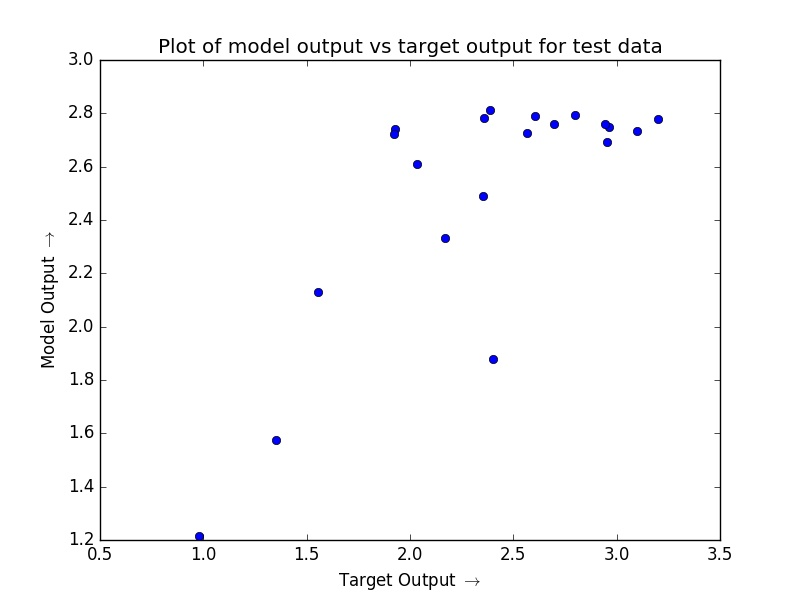
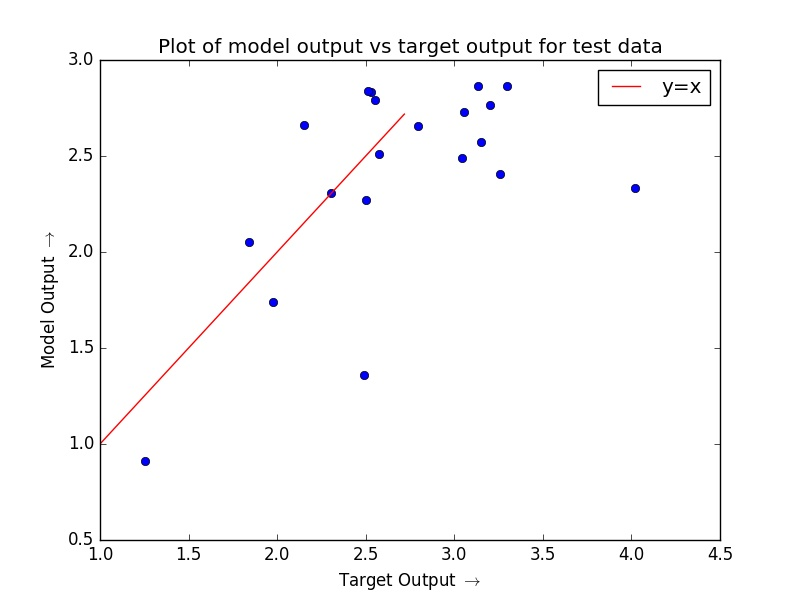
Updated sadi's code

diff --git a/PA1/Q3/main.py b/PA1/Q3/main.py
@@ -2,9 +2,15 @@ import numpy as np
 import matplotlib.pyplot as plt
 
 def likelihood(x,mean,cov):
-	return np.exp(-0.5*np.matmul(np.matmul((x-mean).T,(np.linalg.inv(cov))),(x-mean)))/(np.linalg.det(cov)**0.5)
+	'''
+	Returns the likelihood of observation x belonging to a gaussian class with given mean and covariance
+	'''
+	return np.exp(-0.5*np.matmul(np.matmul((x-mean),(np.linalg.inv(cov))),(x-mean).T))/(np.linalg.det(cov)**0.5)
 
 def classifier(x,training_params):
+	'''
+	Classifies data x into one of 3 gaussian classes by maximising the likelihood
+	'''
 	mean1,mean2,mean3,cov1,cov2,cov3 = training_params
 	L1 = likelihood(x,mean1,cov1)
 	L2 = likelihood(x,mean2,cov2)
@@ -19,10 +25,14 @@ def classifier(x,training_params):
 
 
 def training(alpha): 
+	'''
+	Will train a classifier and then return the train and test error. For smooth plots, we will compute the average training and test error
+	'''
 	av_testing_err = 0
 	av_training_err = 0
-	n_iter = 100
+	n_iter = 100 # Number of iterations to average over for finding the training and test error
 	for j in range(n_iter):
+		# Generate data
 		u1 = np.array([0,0,0])
 		u2 = np.array([1,5,-3])
 		u3 = np.array([0,0,0])
@@ -30,40 +40,42 @@ def training(alpha):
 		sigma2 = np.array([[1,0,0],[0,4,1],[0,1,6]])
 		sigma3 = np.diag([10,10,10])
 
-		N = 20
+		N = 20 # Number of training data samples from each class
 		x1 = np.random.multivariate_normal(u1,sigma1,N)
 		x2 = np.random.multivariate_normal(u2,sigma2,N)
 		x3 = np.random.multivariate_normal(u3,sigma3,N)
 		x = np.append(x1,np.append(x2,x3,0),0)
 
-		mean = np.mean(x)
+		# Estimating means of the distributions
 		s_mean1 = np.mean(x1,0)
 		s_mean2 = np.mean(x2,0)
 		s_mean3 = np.mean(x3,0)
 
+		# Estimating covariances of the distributions
 		s_cov1 = np.cov(x1.T)
 		s_cov2 = np.cov(x2.T)
 		s_cov3 = np.cov(x3.T)
 
-		x_ed = np.append(x1-s_mean1,np.append(x2-s_mean2,x3-s_mean3,0),0)
-		cov = np.cov(x.T) # We will use this to skrink the covariance matrices
+		cov = np.cov(x.T) # Common covariance matrix which will be used to shrink the estimated covariance matrices
 
-		print("Sample means are: {}, {} and {}".format(s_mean1,s_mean2,s_mean3))
-		print("Sample covariance matrices are \n {} \n {} \n {}".format(s_cov1,s_cov2,s_cov3))
+		#print("Sample means are: {}, {} and {}".format(s_mean1,s_mean2,s_mean3))
+		#print("Sample covariance matrices are \n {} \n {} \n {}".format(s_cov1,s_cov2,s_cov3))
 
+		# Shrinking the estimated covariance matrices
 		cov_final1 = ((1-alpha)*N*s_cov1 + alpha*(3*N)*cov)/((1-alpha)*N + alpha*3*N)
 		cov_final2 = ((1-alpha)*N*s_cov2 + alpha*(3*N)*cov)/((1-alpha)*N + alpha*3*N)
 		cov_final3 = ((1-alpha)*N*s_cov3 + alpha*(3*N)*cov)/((1-alpha)*N + alpha*3*N)
-		
+
+		# The following will used to maximise the likelihood of new unseen data
 		training_params = s_mean1,s_mean2,s_mean3,cov_final1,cov_final2,cov_final3
 
 		# Finding training error
 		training_err = 0
 		for i in range(3*N):
 			label_est = classifier(x[i,:],training_params)
-			if label_est!=i//N + 1:
+			if label_est!=i//N + 1: # First 20 are in class 1, next 20 are in class 2 and so on
 				training_err+=1
-		training_err = training_err*100/3/N
+		training_err = training_err/3/N # Average training error
 
 		# Testing
 		N = 50
@@ -78,7 +90,7 @@ def training(alpha):
 			label_est = classifier(x[i,:],training_params)
 			if label_est!=i//N + 1:
 				testing_err+=1
-		testing_err = testing_err*100/3/N
+		testing_err = testing_err/3/N
 
 		av_training_err += training_err/n_iter
 		av_testing_err += testing_err/n_iter
@@ -87,14 +99,16 @@ def training(alpha):
 
 
 def main():
-	training_err = np.array([])
-	testing_err = np.array([])
-	n_alpha = 100
+	training_err = np.array([]) # Will store the training errors for different alpha
+	testing_err = np.array([]) # Will store the test error for different alpha
+	n_alpha = 100 # Number of values of alpha in (0,1) for which the code will be run
+
 	for alpha in range(1,n_alpha,1):
-		print(alpha)
 		err = training(alpha/n_alpha)
 		training_err = np.append(training_err,err[0])
 		testing_err = np.append(testing_err,err[1])
+	
+	# Plotting the variation of error with alpha
 	plt.title("Plot of error variation with alpha")
 	plt.plot(training_err,'b',label = "Training Error")
 	plt.plot(testing_err,'r',label = "Testing Error")
@@ -102,7 +116,7 @@ def main():
 	plt.ylabel(r'Error $\rightarrow$')
 	plt.grid()
 	plt.legend()
-	plt.savefig('plots/error')
+	#plt.savefig('plots/error')
 	plt.show()
 
 if __name__ == "__main__":

diff --git a/PA1/Q4/main.py b/PA1/Q4/main.py
@@ -2,23 +2,25 @@ import numpy as np
 import matplotlib.pyplot as plt
 
 def main():
-	"""
-	mean = np.random.uniform(1,100)
-	sigma = 0.5
-	x = np.random.normal(mean,sigma,(100,100))/100
-	"""
 
-	c = np.array([np.arange(1,101)]).T/101
-	x = np.random.normal(np.repeat(c,100,1),5e-1) # use 0.12 for 0.8
-	x = np.random.normal(np.random.uniform(size=(100,100)),0.1,(100,100))
+	# Need to generate highly correlated columns. 
 
-	#for i in range(1,100):
-	#	x[:,i] = np.roll(x[:,i-1],1)
+	# For the highly correlated case
+	c = np.array([np.arange(1,101)]).T/101 # Mean of columns
+	x = np.random.normal(np.repeat(c,100,1),0.12) # Added gaussian noise to the columns to reduce correlation
+
+	# Use the following x for the uncorrelated case
+	# x = np.random.normal(np.random.uniform(-0.1,1.1,(100,100)),0.3,(100,100))
+
+	# Ensuring all values are between 0 and 1
+	x[np.where(x>1)] = 1
+	x[np.where(x<0)] = 0
 
 	corr = np.corrcoef(x.T)
-	#print(np.linalg.matrix_rank(x))
-	print(corr) # Put limit on 0 and 1
-	u,s,_ = np.linalg.svd(x)
+	print("Rank of the matrix is {}".format(np.linalg.matrix_rank(x)))
+	print(corr)
+
+	s = np.sort(np.linalg.eig(np.matmul(x,x.T))[0])[::-1]**0.5 # Finding singular values of x
 	
 	# PART A
 	fro_norm = np.linalg.norm(x,ord = 'fro')
@@ -27,14 +29,29 @@ def main():
 	# PART B
 	large_sing_vals = np.linalg.norm(s[:10])
 	print("Fraction of frobenius norm captured by the largest 10 singular values: {}".format(large_sing_vals/fro_norm))
-
 	print("largest",s[0])
+
 	# PART C
-	s_square = np.square(s,s)
-	summ = np.zeros(10)
-	for i in range(10):
+	av_contrib = 0
+	N_iter = 100
+	for i in range(N_iter):
+		s_permuted = np.random.permutation(s) # Picking 10 random singular vectors
+		contrib_to_frob_norm = np.linalg.norm(s_permuted[:10])
+		av_contrib += (contrib_to_frob_norm/fro_norm)/N_iter
+	print("Fraction of frobenius norm captured by the random 10 singular values: {}".format(av_contrib))
+
+	# Part D
+	s_square = np.square(s)
+	summ = np.zeros(100)
+	for i in range(100):
 		summ[i] = np.sum(s_square[:i+1])**0.5
+
+	plt.title("Contribution to the frobenius norm vs Number of singular vectors")
 	plt.plot(summ/fro_norm)
+	plt.grid()
+	plt.ylabel(r'Contribution to frobenius norm $\rightarrow$')
+	plt.xlabel(r'Number of singular vectors $\rightarrow$')
+	plt.savefig("Fro_norm_contrib_uncorr")
 	plt.show()
 
 if __name__ == "__main__":

diff --git a/PA1/Q6/main.py b/PA1/Q6/main.py
@@ -28,6 +28,7 @@ def polynomial_regression(data_train,data_test):
 
 	# Range of x values to plot the function for
 	x_plot = np.linspace(0.001,1,99)
+	y_plot = func(x_plot)
 
 	# Generating the A matrix
 	for i in range(0,10):
@@ -44,6 +45,8 @@ def polynomial_regression(data_train,data_test):
 
 		# Finding errors
 		y_test = np.matmul(A_test[:,:degrees[d]+1],w) # Output of model for test data
+
+		# RMS Error
 		test_err[d] = np.linalg.norm(data_test[:,1] - y_test)/(20**0.5)
 		train_err[d] = np.linalg.norm(data[:,1] - y_fit[:,d])/(N**0.5)
 
@@ -60,23 +63,28 @@ def polynomial_regression(data_train,data_test):
 		#plt.show()
 
 		# Following code is for the scatter plot of model output vs target output for the best performing model
+		
 		"""
 		if d == 1: # Degree = 3
 			plt.clf()
 			plt.title('Plot of model output vs target output for training data')
 			plt.plot(data[:,1],y_fit[:,d],'ro')
+			plt.plot(y_plot,y_plot,'r', label = 'y=x')
+			plt.legend()
 			plt.xlabel(r'Target Output $\rightarrow$')
 			plt.ylabel(r'Model Output $\rightarrow$')
 			plt.grid()
-			plt.savefig('plots/scatter_output_training.jpg')
+			#plt.savefig('plots/scatter_output_training.jpg')
 			plt.show()
 
 			plt.clf
 			plt.title('Plot of model output vs target output for test data')
 			plt.plot(data_test[:,1],y_test,'bo')
+			plt.plot(y_plot,y_plot,'r',label = 'y=x')
+			plt.legend()
 			plt.xlabel(r'Target Output $\rightarrow$')
 			plt.ylabel(r'Model Output $\rightarrow$')
-			plt.savefig('plots/scatter_output_test.jpg')
+			#plt.savefig('plots/scatter_output_test.jpg')
 			plt.grid()
 			plt.show()
 		"""
@@ -97,6 +105,7 @@ def polynomial_regression(data_train,data_test):
 	#plt.show()
 
 	# Plotting the variation of error with degree of polynomial
+	plt.cla()
 	plt.title('Plot of training and test RMS errors with degree of polynomial fit')
 	plt.plot(degrees,test_err,'r', label = 'Test Error')
 	plt.plot(degrees,train_err,'b',label = 'Training Error')
@@ -104,8 +113,8 @@ def polynomial_regression(data_train,data_test):
 	plt.grid()
 	plt.xlabel(r'Degree of polynomial $\rightarrow$')
 	plt.ylabel(r'RMS Error $\rightarrow$')
-	#plt.savefig('plots/ten_points_rms_error.jpg')
-	#plt.show()
+	#plt.savefig('plots/eighty_points_rms_error.jpg')
+	plt.show()
 
 	min_test_err_degrees = degrees[np.argmin(test_err)]
 
